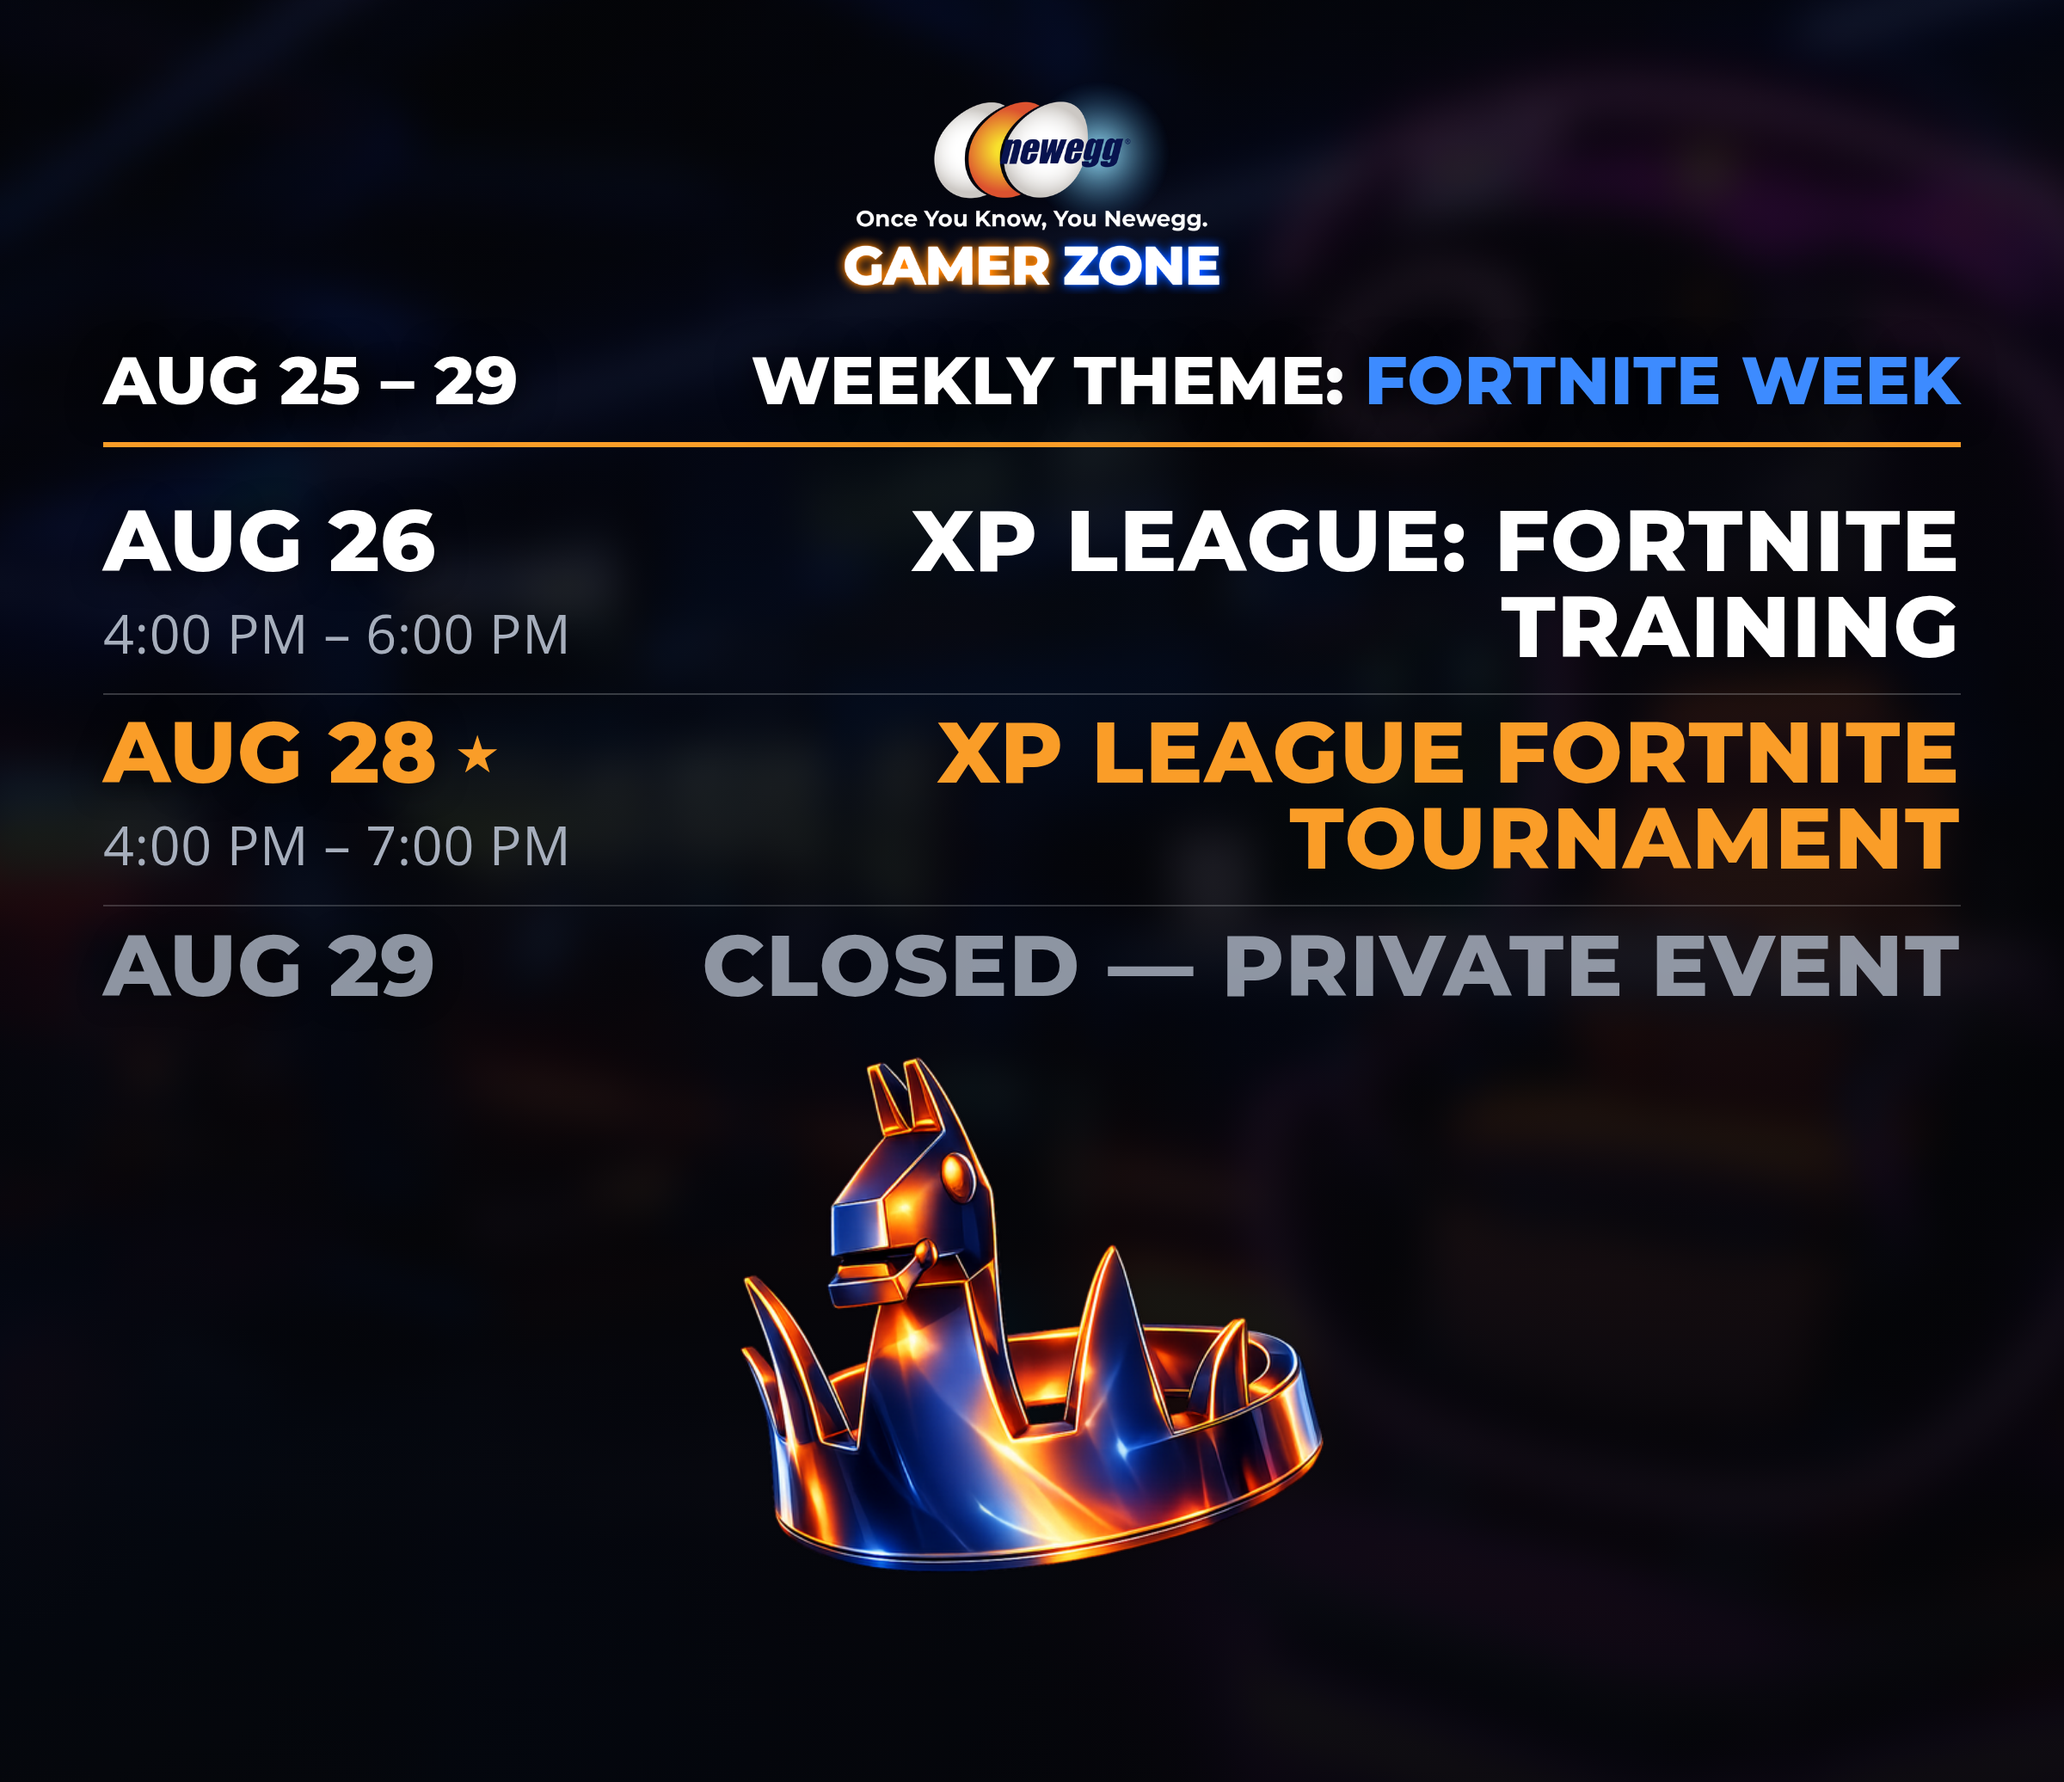
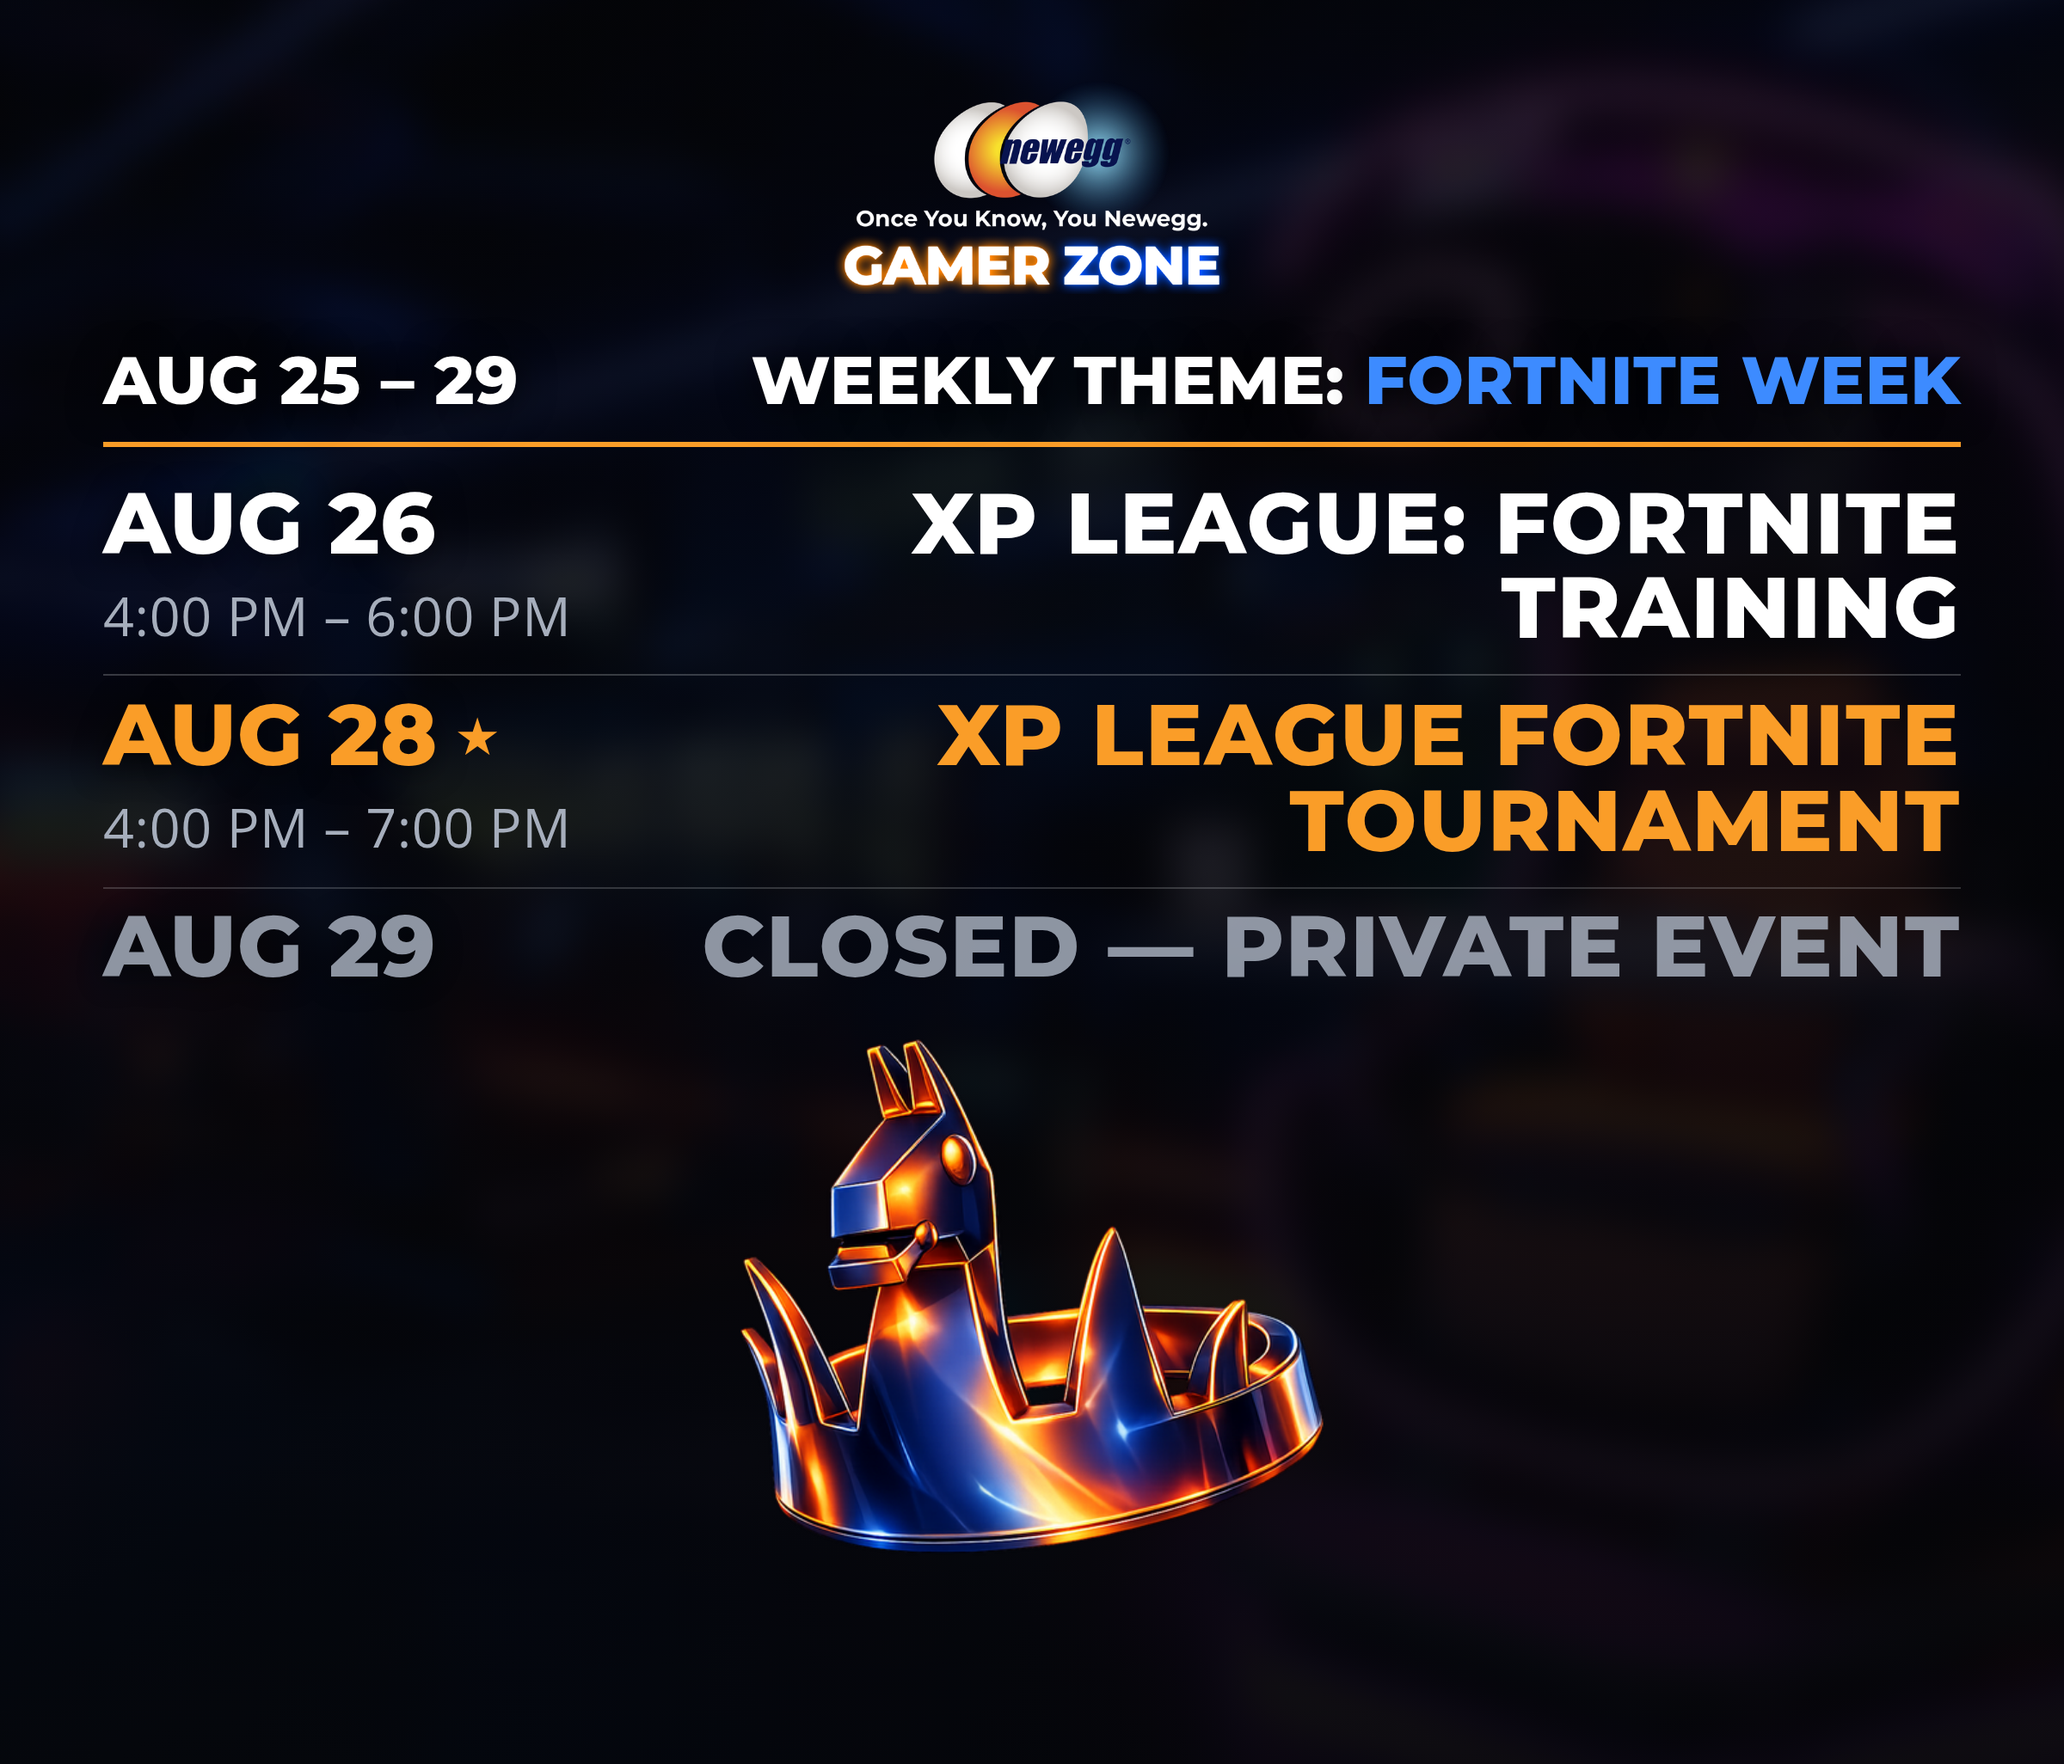
Fix event-row spacing: gap above the first row now matches the gap between every other row (removed extra .eu-list margin-top); regenerate Fortnite Week 1:1 + 16:9 exports

Changed region(s): [[0.0312, 0.0624, 0.9688, 0.5614], [0.3438, 0.5926, 0.6562, 0.9045]]

diff --git a/index.html b/index.html
@@ -7,7 +7,7 @@
 <title>Newegg Gamer Zone — Get in the Zone — Free-to-Play Gaming Lounge, Diamond Bar CA</title>
 <meta name="description" content="Try the latest tech for free at the Newegg Gamer Zone: gaming PCs, racing sims, VR, esports, free snacks. Weekly events, XP League, Zone Points leaderboard.">
 <link rel="icon" type="image/png" href="assets/img/favicon.png">
-<link rel="stylesheet" href="assets/css/style.css?v=48">
+<link rel="stylesheet" href="assets/css/style.css?v=49">
 </head>
 <body class="home-page">
 <div id="gz-veil" aria-hidden="true"></div>
@@ -263,12 +263,12 @@
   </div>
   <p class="legal">Minors under 18 must be accompanied by an adult (18+) at all times &middot; ID may be required &middot; Free play subject to availability; hours may change for private events &middot; &copy; 2026 Newegg Commerce, Inc.</p>
 </footer>
-<script src="assets/js/main.js?v=48" defer></script>
-<script src="assets/js/techno-hero.js?v=48" defer></script>
-<script src="assets/js/events.js?v=48" defer></script>
-<script src="assets/js/event-update.js?v=48" defer></script>
-<script src="assets/js/leaderboard.js?v=48" defer></script>
-<script src="assets/js/zone-stack.js?v=48" defer></script>
-<script src="assets/js/reviews.js?v=48" defer></script>
+<script src="assets/js/main.js?v=49" defer></script>
+<script src="assets/js/techno-hero.js?v=49" defer></script>
+<script src="assets/js/events.js?v=49" defer></script>
+<script src="assets/js/event-update.js?v=49" defer></script>
+<script src="assets/js/leaderboard.js?v=49" defer></script>
+<script src="assets/js/zone-stack.js?v=49" defer></script>
+<script src="assets/js/reviews.js?v=49" defer></script>
 </body>
 </html>

diff --git a/assets/css/style.css b/assets/css/style.css
@@ -1214,7 +1214,18 @@ html.board-mode .eu-bottom-group{margin-top:auto}
    "Special Events" under a "theme weeks" list) — same divider language
    as the row border-tops, orange/uppercase like other eyebrow text. */
 .eu-sublist-head{font-family:var(--head);font-weight:800;text-transform:uppercase;letter-spacing:.06em;font-size:clamp(1rem,2cqw,1.35rem);color:var(--ne-orange);margin:clamp(1.3rem,3cqw,2.1rem) 0 .5rem;padding-top:clamp(1rem,2.5cqw,1.6rem);border-top:1px solid rgba(242,244,248,.22)}
-.eu-list{display:flex;flex-direction:column;margin-top:.65rem}
+/* No fixed margin-top here: the gap above the FIRST row in a list needs to
+   match the gap between every other pair of rows exactly. Between two
+   rows, that gap is 2x --eu-row-pad (this row's padding-bottom + the next
+   row's padding-top, straddling the 1px border). Above the first row,
+   .eu-top's own padding-bottom+margin-bottom already contributes one
+   --eu-row-pad, so adding another fixed margin here on top of the first
+   row's own padding-top would make that gap larger than the rest — which
+   is exactly the "Aug 26 gets more breathing room than Aug 28/Aug 29" bug
+   this replaced. Zero margin here means the first row's own padding-top
+   is the only other contribution, matching 2x --eu-row-pad like every
+   other row gap. */
+.eu-list{display:flex;flex-direction:column}
 .eu-row{display:flex;align-items:flex-start;justify-content:space-between;gap:1.2rem;padding:var(--eu-row-pad) 0;border-top:1px solid rgba(242,244,248,.22)}
 /* No border directly under the thick orange divider (first row) and no
    doubled-up line stacking against the location row below the list

diff --git a/events.html b/events.html
@@ -7,7 +7,7 @@
 <title>Events & Calendar — Newegg Gamer Zone</title>
 <meta name="description" content="Weekly events, XP League Fortnite trainings and tournaments, theme days, and the monthly calendar at the Newegg Gamer Zone.">
 <link rel="icon" type="image/png" href="assets/img/favicon.png">
-<link rel="stylesheet" href="assets/css/style.css?v=48">
+<link rel="stylesheet" href="assets/css/style.css?v=49">
 </head>
 <body>
 <div id="gz-veil" aria-hidden="true"></div>
@@ -203,9 +203,9 @@
   </div>
   <p class="legal">Minors under 18 must be accompanied by an adult (18+) at all times &middot; ID may be required &middot; Free play subject to availability; hours may change for private events &middot; &copy; 2026 Newegg Commerce, Inc.</p>
 </footer>
-<script src="assets/js/main.js?v=48" defer></script>
-<script src="assets/js/events.js?v=48" defer></script>
-<script src="assets/js/calendar.js?v=48" defer></script>
-<script src="assets/js/event-update.js?v=48" defer></script>
+<script src="assets/js/main.js?v=49" defer></script>
+<script src="assets/js/events.js?v=49" defer></script>
+<script src="assets/js/calendar.js?v=49" defer></script>
+<script src="assets/js/event-update.js?v=49" defer></script>
 </body>
 </html>

diff --git a/ambassador.html b/ambassador.html
@@ -8,7 +8,7 @@
 <meta name="description" content="Become a Newegg Gamer Zone Ambassador: community leaders, esports teams, and event organizers run recurring events at the Zone and unlock growing perks — gift card & product prizing, catered meals, and a featured host spot on our website — the more events they host.">
 
 <link rel="icon" type="image/png" href="assets/img/favicon.png">
-<link rel="stylesheet" href="assets/css/style.css?v=48">
+<link rel="stylesheet" href="assets/css/style.css?v=49">
 </head>
 <body>
 <div id="gz-veil" aria-hidden="true"></div>
@@ -245,7 +245,7 @@
   <p class="legal">Minors under 18 must be accompanied by an adult (18+) at all times &middot; ID may be required &middot; Ambassador perks are discretionary and subject to hosting the cumulative events required for each tier &middot; &copy; 2026 Newegg Commerce, Inc.</p>
 </footer>
 
-<script src="assets/js/main.js?v=48" defer></script>
-<script src="assets/js/ambassador.js?v=48" defer></script>
+<script src="assets/js/main.js?v=49" defer></script>
+<script src="assets/js/ambassador.js?v=49" defer></script>
 </body>
 </html>

diff --git a/games.html b/games.html
@@ -7,7 +7,7 @@
 <title>Games — Newegg Gamer Zone</title>
 <meta name="description" content="The full game list at the Newegg Gamer Zone — PC, VR, party, esports, and fighting titles available to play, free.">
 <link rel="icon" type="image/png" href="assets/img/favicon.png">
-<link rel="stylesheet" href="assets/css/style.css?v=48">
+<link rel="stylesheet" href="assets/css/style.css?v=49">
 </head>
 <body>
 <div id="gz-veil" aria-hidden="true"></div>
@@ -110,8 +110,8 @@
   </div>
   <p class="legal">Minors under 18 must be accompanied by an adult (18+) at all times &middot; ID may be required &middot; Free play subject to availability; hours may change for private events &middot; &copy; 2026 Newegg Commerce, Inc.</p>
 </footer>
-<script src="assets/js/main.js?v=48" defer></script>
-<script src="assets/js/games.js?v=48" defer></script>
-<script src="assets/js/senet-chart.js?v=48" defer></script>
+<script src="assets/js/main.js?v=49" defer></script>
+<script src="assets/js/games.js?v=49" defer></script>
+<script src="assets/js/senet-chart.js?v=49" defer></script>
 </body>
 </html>

diff --git a/edu.html b/edu.html
@@ -7,7 +7,7 @@
 <title>Academy — Workshops & Esports Training — Newegg Gamer Zone</title>
 <meta name="description" content="Gamer Zone Workshops: AI in Game Design, PC Building 101, and XP League esports training for high schoolers in Diamond Bar, CA.">
 <link rel="icon" type="image/png" href="assets/img/favicon.png">
-<link rel="stylesheet" href="assets/css/style.css?v=48">
+<link rel="stylesheet" href="assets/css/style.css?v=49">
 <style>
   /* Kicker/accent text and track badges are blue site-wide by default now,
      so no page-scoped override is needed here anymore. */
@@ -141,6 +141,6 @@
   </div>
   <p class="legal">Minors under 18 must be accompanied by an adult (18+) at all times &middot; ID may be required &middot; Free play subject to availability; hours may change for private events &middot; &copy; 2026 Newegg Commerce, Inc.</p>
 </footer>
-<script src="assets/js/main.js?v=48" defer></script>
+<script src="assets/js/main.js?v=49" defer></script>
 </body>
 </html>

diff --git a/screenshot-monthly-calendar.html b/screenshot-monthly-calendar.html
@@ -14,7 +14,7 @@
      data/events.json — update it manually when the month's theme weeks
      or special events change. Safe to delete once no longer needed. -->
 <link rel="icon" type="image/png" href="assets/img/favicon.png">
-<link rel="stylesheet" href="assets/css/style.css?v=48">
+<link rel="stylesheet" href="assets/css/style.css?v=49">
 <!-- Page-scoped tweaks for this screenshot only — do not touch the shared
      .eu-major/.eu-row rules in style.css, since those also drive the real
      live Weekly Lineup on index.html/events.html and this month-at-a-glance
@@ -158,6 +158,6 @@
     </div>
   </section>
 </main>
-<script src="assets/js/main.js?v=48"></script>
+<script src="assets/js/main.js?v=49"></script>
 </body>
 </html>
